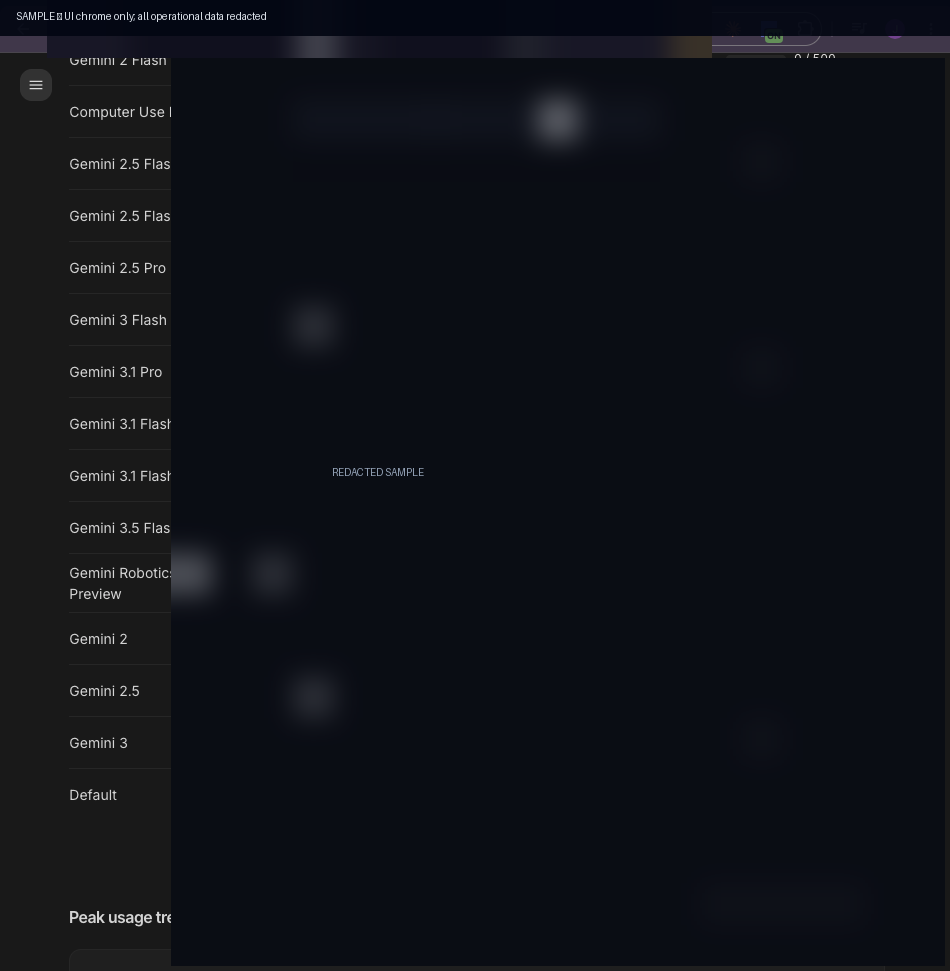
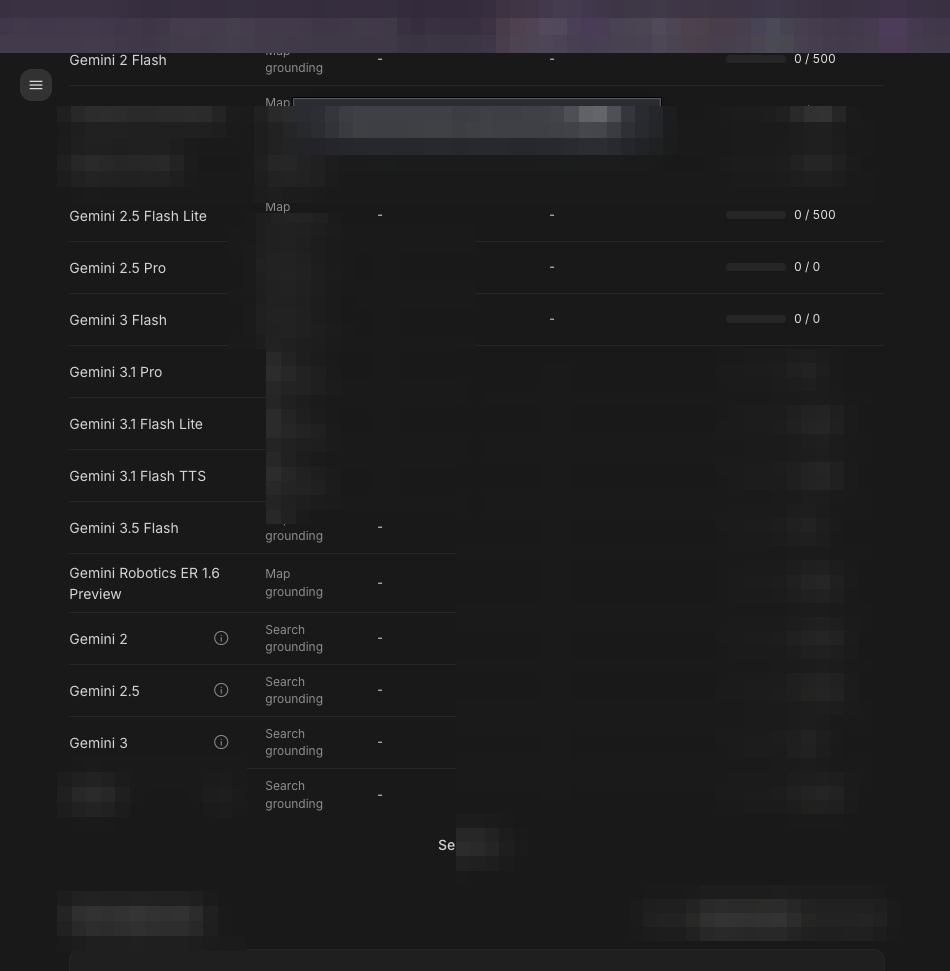
docs: blur sensitive data in screenshots, keep UI visible

diff --git a/README.md b/README.md
@@ -1,64 +1,54 @@
 # Relive Cure — Product CRM (Showcase)
 
 > **Public overview only.** Application source is private.  
-> Screenshots are **anonymized** (names, phones, messages, and URLs removed).
+> Screenshots use the real UI with **sensitive fields blurred** (names, phones, messages, URLs, rep rows).
 
-End-to-end **patient lead operations** system for a specialty clinic: inbound chat → qualification → CRM sync → analytics → rep workflows.
+End-to-end patient lead operations for a specialty clinic: inbound chat → qualification → CRM sync → analytics → rep workflows.
 
 ## What it is
-
-A multi-surface product:
 
 | Surface | Role |
 |---|---|
 | Consultation chatbot | Qualifies inbound interest on WhatsApp (multi-language) |
 | CRM dashboard | Ops inbox, KPIs, funnel, rep performance |
-| Backend API | Lead ingest, sync, scoring hooks, agent tooling |
+| Backend API | Lead ingest, sync, scoring hooks |
 | Lead scoring board | Fair distribution + SLA-aware prioritization |
 
 ## How it works
 
 ```
-Inbound message
-    → language-aware conversation flow
-    → structured lead fields captured
-    → backend ingest + CRM sync
-    → dashboard: queue, analytics, rep views
+Inbound message → language-aware flow → structured lead capture
+    → backend ingest → CRM dashboard (queues + analytics)
     → optional scoring / assignment for sales floor
 ```
 
-1. **Capture** — chatbot collects intent and contact context without staff typing every reply  
-2. **Normalize** — backend stores events, signals, and status transitions  
-3. **Operate** — dashboard shows queues, hot items, funnel health, and assignee views  
-4. **Improve** — analytics (funnel, loss reasons, channel mix) guide process tweaks  
+## Screenshots (data blurred, UI intact)
 
-## Screenshots (redacted UI shell)
+### Analytics dashboard
+![Analytics](docs/screenshots/05-login.png)
 
-### Ops shell
-![Ops](docs/screenshots/05-login.png)
-
-### Chatbot operations view
+### Chatbot operations
 ![Chatbot](docs/screenshots/01-chatbot-lore-tab.png)
 
-### Analytics
-![Analytics](docs/screenshots/06-dashboard-main.png)
-
-### Lead / rep detail drawers (data removed)
-![Rep](docs/screenshots/02-analytics-rep-profile.png)
-![Lead](docs/screenshots/04-analytics-lead-panel-overview.png)
+### Lead detail view
+![Lead panel](docs/screenshots/04-analytics-lead-panel-overview.png)
 
 ## Stack (high level)
 
-React · Vite · Node/Express · Supabase · WhatsApp Cloud API · Streamlit (scoring board)
+React · Vite · Node/Express · Supabase · WhatsApp Cloud API · Streamlit
 
-## Related public overviews
+## Related overviews
 
-- [Consultation bot overview](https://github.com/jaskiringg/lasik-consultation-bot)
-- [Lead scoring overview](https://github.com/jaskiringg/lead-scoring-dashboard)
+- [Consultation bot](https://github.com/jaskiringg/lasik-consultation-bot)
+- [Lead scoring](https://github.com/jaskiringg/lead-scoring-dashboard)
 
-## Source access
+## Private source (invite-only)
 
-Private implementation repos (invite-only). Collaborator: [@siddharth555555](https://github.com/siddharth555555).
+- `relive-cure-dashboard` — CRM UI
+- `relive-cure-backend` — API / WhatsApp engine
+- `lasik-whatsapp-bot` · `lead-intelligence`
+
+Collaborator: [@siddharth555555](https://github.com/siddharth555555)
 
 ---
-*This repository intentionally contains no application source.*
+*No application source in this repository.*
